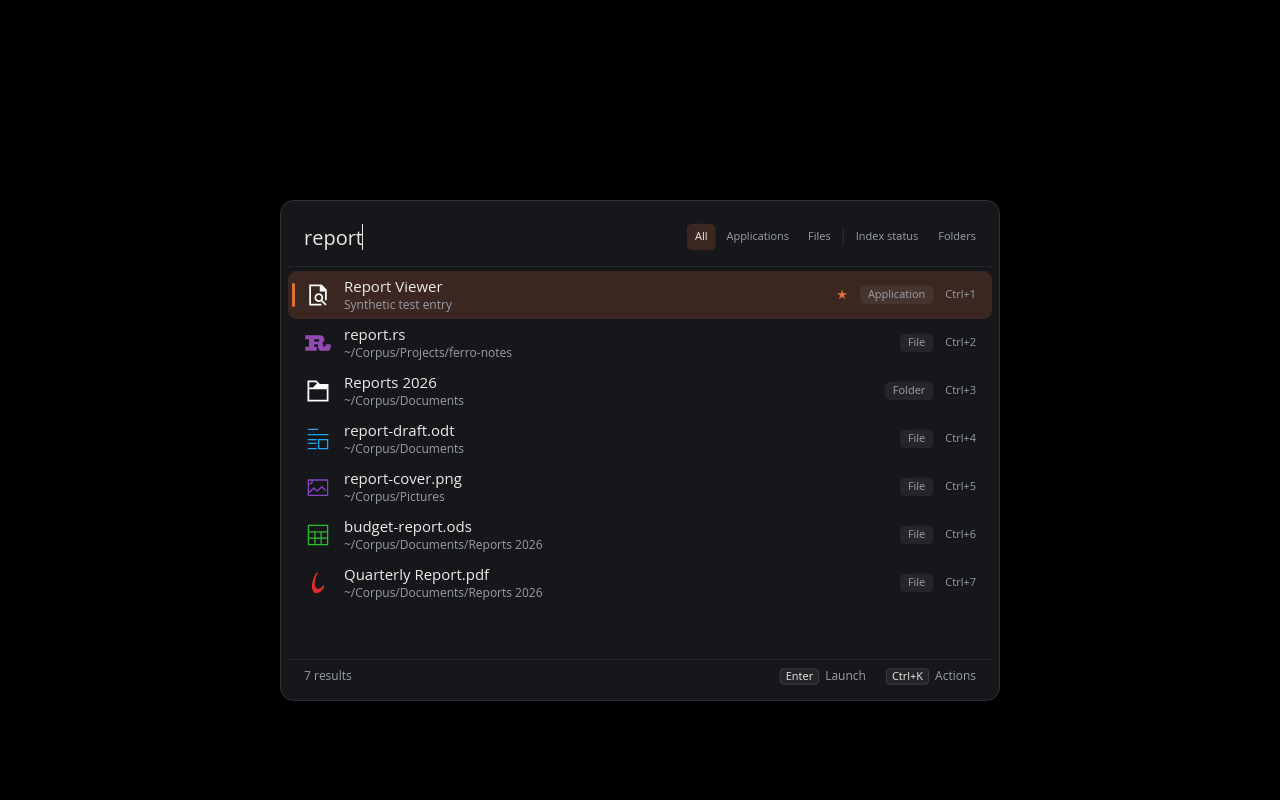
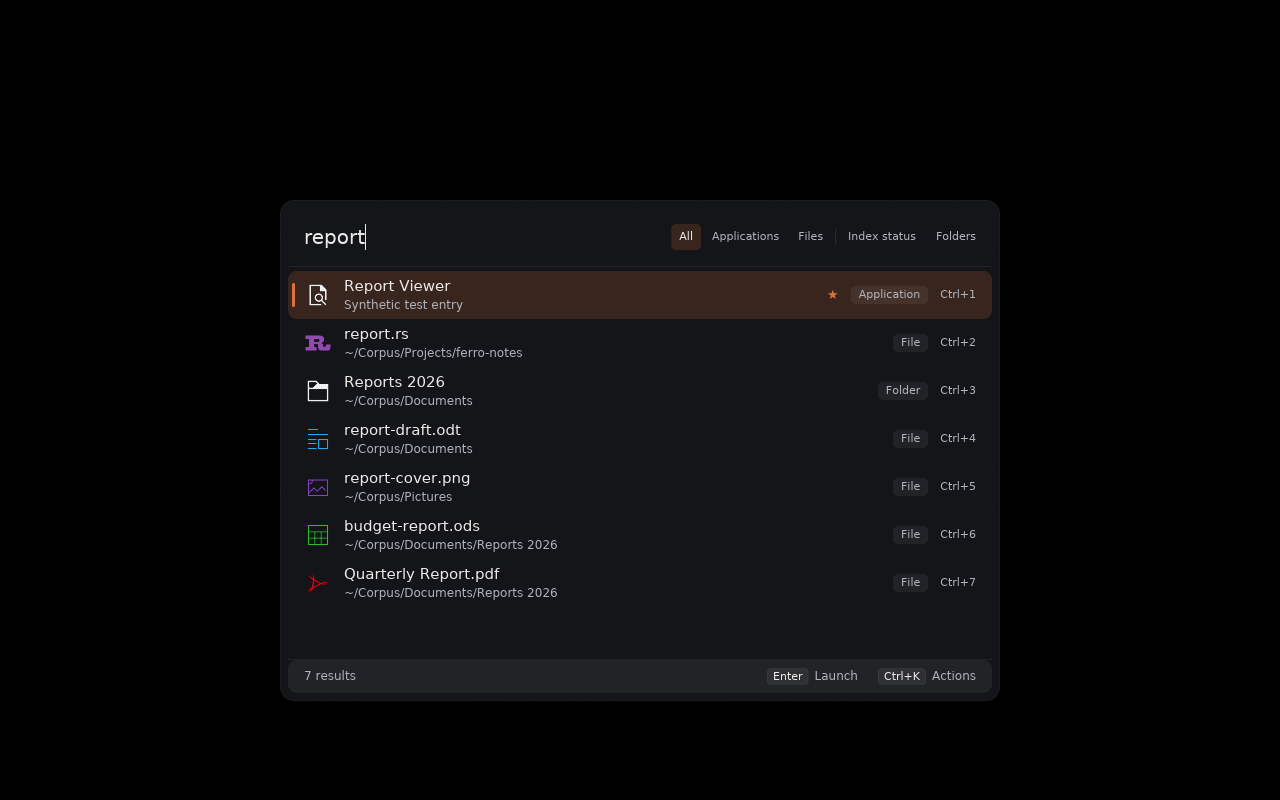
test(launcher): cover glass preview resizing and publish captures
Check expanded and restored regions against the isolated backdrop. Refresh launcher images and document renderer requirements and historical timing limits.

diff --git a/tests/launcher-interaction.py b/tests/launcher-interaction.py
@@ -494,7 +494,31 @@ def main():
             else:
                 assert mean(values) > 0x17 + 5, "glass must show the blurred backdrop"
                 assert pstdev(values) < 3, "fine backdrop detail must be blurred, not just alpha blended"
-                assert values[0] != 0x17
+                assert pixels(f"material-{mode}.png", 280, 200, 2, 2) == \
+                    pixels("material-backdrop.png", 280, 200, 2, 2), "rounded corners must not blur outside the panel"
+
+                before = len([r for r in records(log) if r.get("event") == "query_start"])
+                chord(29, 30)  # Ctrl+A replaces the query.
+                text_report()
+                wait_for(lambda: any(r.get("event") == "query_frame" and r["generation"] >= before + 6
+                                     for r in records(log)), "file results for material preview")
+                tap(108)  # First file, after the synthetic application.
+                chord(29, 37)
+                wait_for(lambda: any(r.get("event") == "actions_focused" for r in records(log)), "preview action filter")
+                type_text("preview")
+                wait_for(lambda: len([r for r in records(log) if r.get("event") == "action_input"]) == 7,
+                         "preview filter received input")
+                tap(28)
+                wait_for(lambda: any(r.get("event") == "preview_loaded" for r in records(log)), "preview loaded")
+                capture("material-preview.png")
+                expanded = pixels("material-preview.png", 1040, 580, 60, 20)
+                assert 0x17 + 5 < mean(expanded) < 60 and pstdev(expanded) < 3, \
+                    "blur must extend into the expanded preview surface"
+                tap(1)
+                wait_for(lambda: any(r.get("event") == "preview_closed" for r in records(log)), "preview closed")
+                capture("material-preview-closed.png")
+                assert pixels("material-preview-closed.png", 1040, 580, 60, 20) == \
+                    pixels("material-backdrop.png", 1040, 580, 60, 20), "closing preview must restore the smaller surface"
             subprocess.run([str(binary)], check=True, timeout=5)
             launcher.wait(timeout=5)
             assert launcher.returncode == 0

diff --git a/crates/launcher/src/ui.rs b/crates/launcher/src/ui.rs
@@ -936,6 +936,7 @@ impl Launcher {
             preview::Effect::Close => {
                 self.preview_enabled = false;
                 self.cancel_preview(true);
+                timing::event("preview_closed");
                 Task::batch([self.resize(), widget::operation::focus(search_id())])
             }
             preview::Effect::Refresh => Task::batch([
@@ -1180,6 +1181,7 @@ fn update_inner(s: &mut Launcher, message: Message) -> Task<Message> {
             {
                 panel.loaded(result);
                 s.preview_request = None;
+                timing::event("preview_loaded");
             }
             Task::none()
         }

diff --git a/docs/LAUNCHER.md b/docs/LAUNCHER.md
@@ -46,7 +46,8 @@ the engine and integrations. See [installation](INSTALLATION.md).
 ## Appearance
 
 The dark surface becomes translucent when the compositor advertises background
-blur and the active renderer supports transparency. Rounded blur regions follow the normal, compact and preview layouts.
+blur and the active renderer supports transparency. Rounded blur regions follow
+the normal, compact and preview layouts.
 The action panel remains solid so result text does not show through its commands;
 the footer has a subtle inset surface. Selection retains the iron accent.
 
@@ -64,7 +65,13 @@ that software path explicitly. `--opaque` keeps the normal renderer and disables
 blur; it does not select a driver.
 
 The rendered blur is checked in virtual KWin with Mesa software graphics;
-physical desktops and hardware GPU drivers remain unverified.
+physical desktops and hardware GPU drivers remain unverified. WGPU adapter and
+pipeline initialization can change startup time and memory use; previous timing
+tables describe the earlier software path.
+
+[Blurred surface](assets/launcher-glass.png) · [Opaque surface](assets/launcher-opaque.png)
+
+These captures use a fine-striped backdrop in an isolated KWin session.
 
 ## Keys
 
@@ -589,8 +596,10 @@ text waits for a widget focus query to return true. The suite does not establish
 typeahead handling between an opening shortcut and the asynchronous focus change.
 
 The material check places fine stripes behind the launcher and compares actual
-output pixels with blur enabled, with `--opaque` and with the tiny-skia fallback. It verifies that the stripes
-are smoothed by the compositor, rather than only dimmed by alpha blending.
+output pixels with blur enabled, with `--opaque` and with the tiny-skia fallback.
+It verifies that the stripes
+are smoothed by the compositor, rather than only dimmed by alpha blending, and
+that opening/closing the preview updates the blur region and surface width.
 `material.json`, native-resolution PNGs and diagnostics accompany each profile.
 Protocol tests use an independent socket peer for standard/legacy selection,
 capability withdrawal/restoration, manager removal, rounded resize regions and
@@ -625,6 +634,9 @@ ends at a subsequent redraw event. Superseded, hidden and failed queries have se
 events and do not become successful frame samples. `keyboard_focus_enter` and
 `keyboard_focus_leave` report actual compositor keyboard focus without key contents;
 `actions_focused` reports a successful widget focus query in diagnostic mode.
+`material_blur_requested` reports a protocol request, not proof of rendered blur;
+`material_opaque` reports its withdrawal. `preview_loaded` and `preview_closed`
+identify accepted preview replies and closing the sidebar.
 An old queued redraw cannot
 complete newer results. These signals request a redraw; they do **not measure
 completed drawing, compositor presentation or physical input-to-display latency**.

diff --git a/README.md b/README.md
@@ -64,6 +64,10 @@ Running the command again closes the open launcher. Clicking another window also
 compositor moves keyboard focus away; the [launcher guide](docs/LAUNCHER.md) lists exceptions. The installer does not
 register a global shortcut or change desktop settings.
 
+The launcher uses a dark glass surface when background blur is available, with
+a solid fallback. Bind `ferroseek-launcher --opaque` if you prefer an opaque
+appearance. See [appearance and renderer requirements](docs/LAUNCHER.md#appearance).
+
 Use `./scripts/install.sh` for guided setup, or `--dry-run` to inspect its plan.
 See [installation and upgrades](docs/INSTALLATION.md) for XDG paths, indexing
 configuration, optional service enablement, archives and uninstall.

diff --git a/docs/BENCHMARKS.md b/docs/BENCHMARKS.md
@@ -621,6 +621,11 @@ warm-cache regression check, not a new million-file or desktop benchmark.
 
 ## 12. Launcher interaction latency
 
+The numeric snapshots below predate the WGPU material path. New launcher runs
+include graphics adapter initialization; the historical software results do not
+characterize its startup cost. Per-run diagnostics remain in the graphical CI
+artifacts, with physical display presentation still excluded.
+
 The isolated graphical harness measures the release launcher and real daemon
 together. It generates 10,007 synthetic files, waits for indexing to finish,
 and starts virtual KWin with a software renderer, a temporary HOME/XDG tree and
